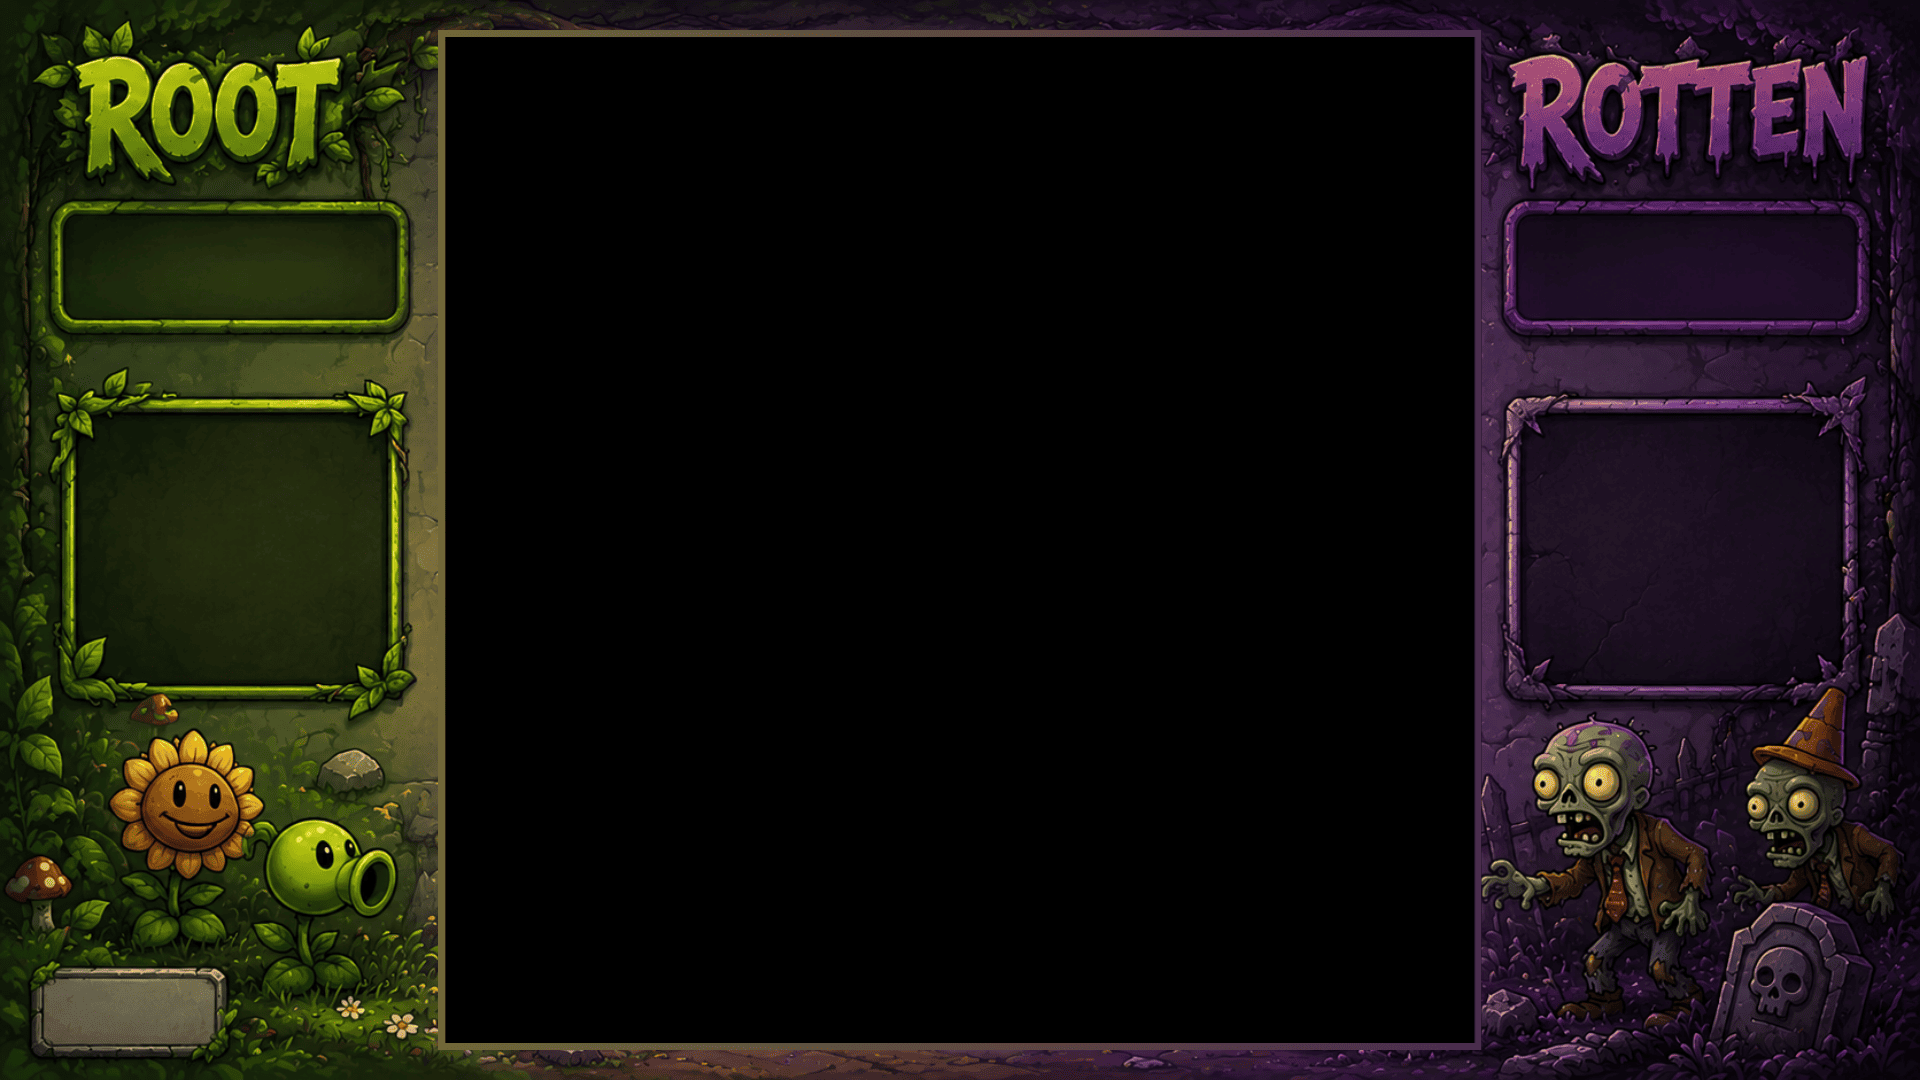
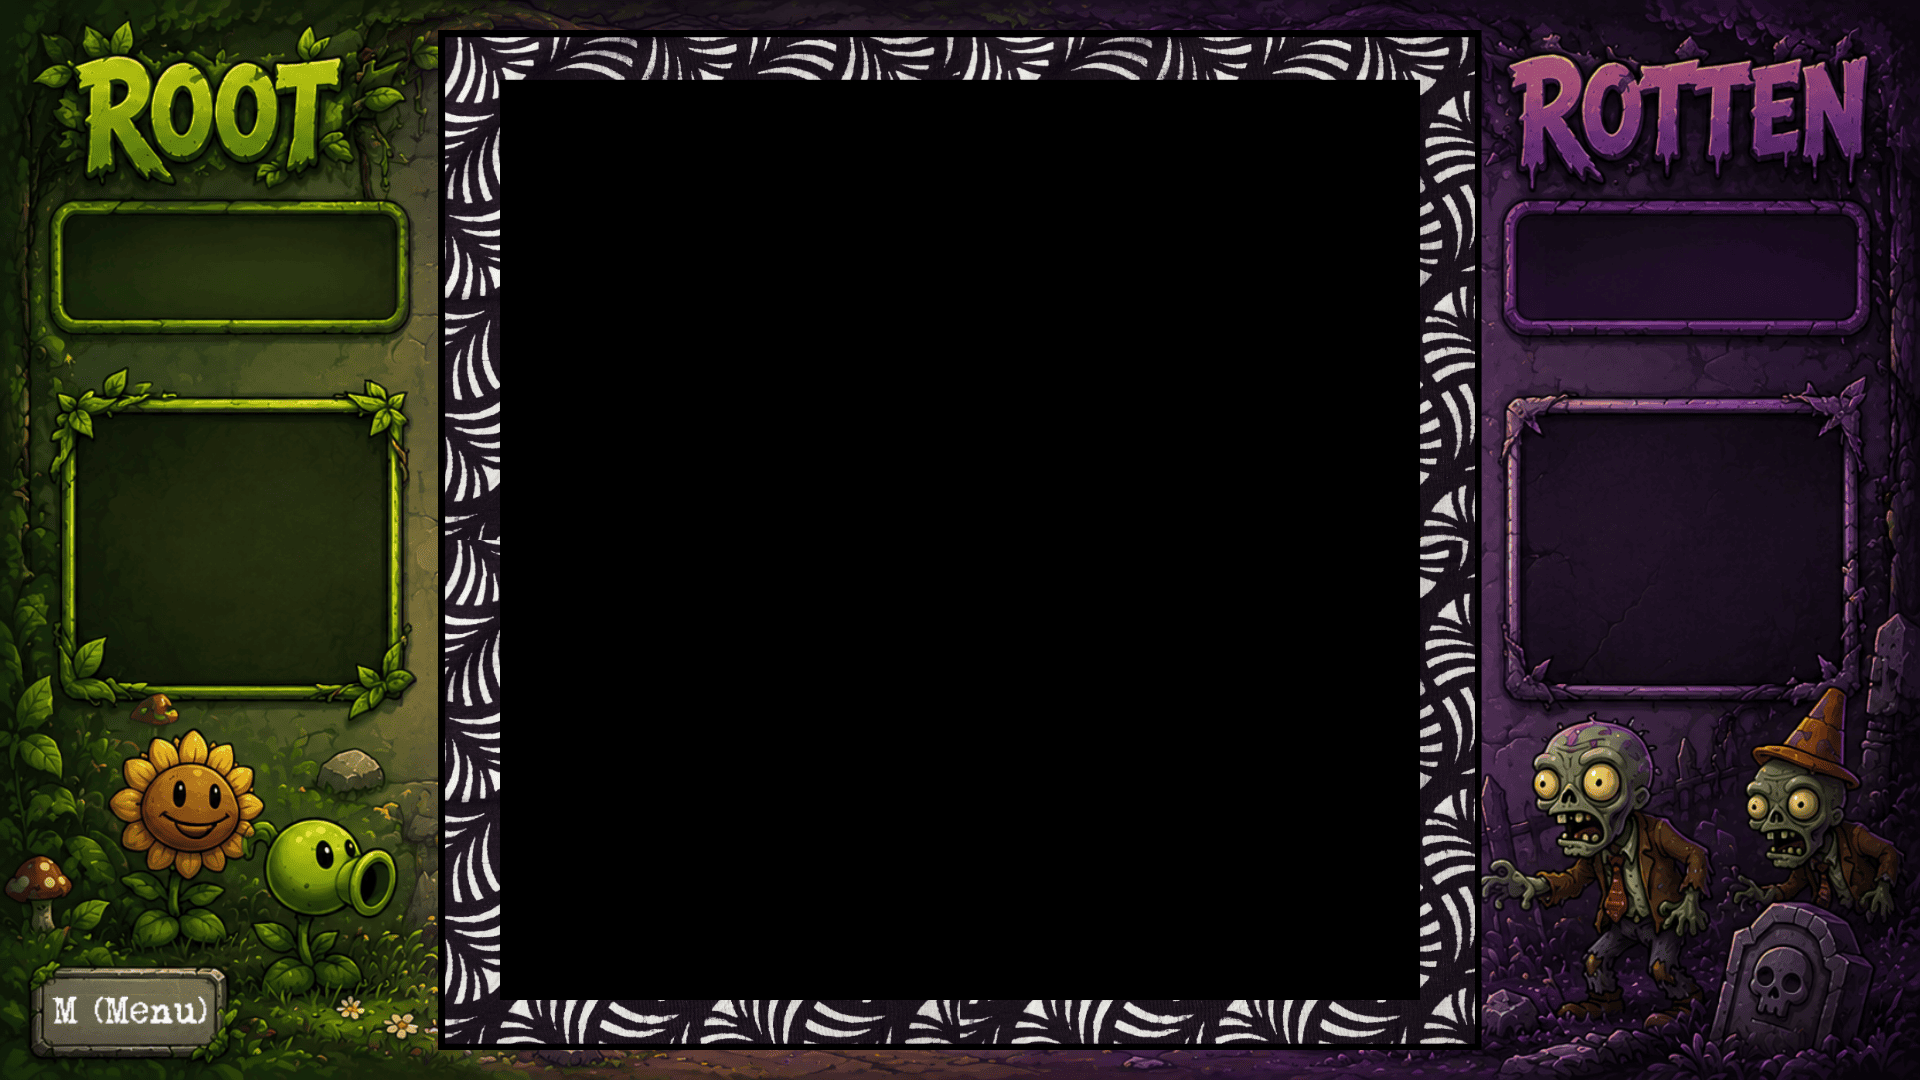
Se ha añadido el fondo que acompaña el tablero, y ahora se señaliza mediante una "luz" el turno de cada equipo en el tablero

diff --git a/src/tablero.cpp b/src/tablero.cpp
@@ -15,6 +15,7 @@
 #include "listapieza.h"
 #include "cursor.h"
 #include <iostream>
+#include "ETSIDI.h"
 
 void Tablero::inicializaTablero() {
 	// Patron del tablero Archon 9x9
@@ -37,9 +38,9 @@ void Tablero::inicializaTablero() {
 	// Definicion de colores RGB para cada tipo
 	using byte = unsigned char;
 	byte colores[3][3] = {
-		{90, 180, 80}, // 0: Casilla de Plantas
-		{90, 30, 120}, // 1: Casilla de Zombies
-		{200, 200, 200}, // 2: Casilla Neutral
+		{136, 180, 10}, // 0: Casilla de Plantas
+		{80, 47, 84}, // 1: Casilla de Zombies
+		{235, 235, 235}, // 2: Casilla Neutral
 	};
 
 	for (int i = 0; i < FILAS; i++) { // Inicialización del tipo de casilla y su color
@@ -59,6 +60,22 @@ void Tablero::inicializaTablero() {
 }
 
 void Tablero::dibujaTablero(const Cursor& cursor) {
+	extern float G_XMAX;
+	extern float G_YMAX;
+	glEnable(GL_TEXTURE_2D);
+	glEnable(GL_BLEND);
+	glBlendFunc(GL_SRC_ALPHA, GL_ONE_MINUS_SRC_ALPHA);
+	glBindTexture(GL_TEXTURE_2D, ETSIDI::getTexture("imagenes/fondos/fondo_tablero.png").id);
+	glColor3f(1.0f, 1.0f, 1.0f);
+	glBegin(GL_QUADS);
+	glTexCoord2f(0.0f, 1.0f); glVertex3f(-G_XMAX, -G_YMAX, 0);
+	glTexCoord2f(1.0f, 1.0f); glVertex3f(G_XMAX, -G_YMAX, 0);
+	glTexCoord2f(1.0f, 0.0f); glVertex3f(G_XMAX, G_YMAX, 0);
+	glTexCoord2f(0.0f, 0.0f); glVertex3f(-G_XMAX, G_YMAX, 0);
+	glEnd();
+	glDisable(GL_BLEND);
+	glDisable(GL_TEXTURE_2D);
+
 	// Dibuja las casillas
 	for (int i = 0; i < FILAS; i++) {
 		for (int j = 0; j < COLS; j++) {
@@ -327,11 +344,12 @@ void Tablero::cancelarSeleccion()
 	casillasValidas.clear();
 }
 
-void Tablero::dibuja(const Cursor& cursor)
+void Tablero::dibuja(const Cursor& cursor, int turno)
 {
-	dibujaTablero(cursor);     // casillas + cursor
-	dibujaPiezas();            // piezas encima
-	marcaCasillasValidas();    // casillas verdes encima de todo
+	dibujaTablero(cursor); // fondo + casillas + cursor
+	dibujaPiezas(); // piezas encima
+	marcaCasillasValidas(); // casillas verdes encima de todo
+	dibujarIndicadorTurno(turno); // indicador de turno, lo último
 }
 
 constexpr float VEL_ANIMACION = 3.0f; // movimiento casillas por segundo
@@ -420,4 +438,28 @@ bool Tablero::aplicarHechizo(Pos destino)
 
 	if (exito) { hechizoActivo = nullptr; magoLanzando = nullptr; }
 	return exito;
+}
+
+void Tablero::dibujarIndicadorTurno(int turno) {
+	extern float G_XMAX;
+	extern float G_YMAX;
+
+	const char* ruta = (turno == 0) ? "imagenes/turnos/turno_plantas.png" : "imagenes/turnos/turno_zombies.png";
+
+	auto tex = ETSIDI::getTexture(ruta);
+	if (tex.id == 0) return;
+
+	glEnable(GL_TEXTURE_2D);
+	glEnable(GL_BLEND);
+	glBlendFunc(GL_SRC_ALPHA, GL_ONE_MINUS_SRC_ALPHA);
+	glBindTexture(GL_TEXTURE_2D, tex.id);
+	glColor4f(1.0f, 1.0f, 1.0f, 1.0f);
+	glBegin(GL_QUADS);
+	glTexCoord2f(0.0f, 1.0f); glVertex3f(-G_XMAX, -G_YMAX, 0);
+	glTexCoord2f(1.0f, 1.0f); glVertex3f(G_XMAX, -G_YMAX, 0);
+	glTexCoord2f(1.0f, 0.0f); glVertex3f(G_XMAX, G_YMAX, 0);
+	glTexCoord2f(0.0f, 0.0f); glVertex3f(-G_XMAX, G_YMAX, 0);
+	glEnd();
+	glDisable(GL_BLEND);
+	glDisable(GL_TEXTURE_2D);
 }

diff --git a/src/mundo.h b/src/mundo.h
@@ -28,6 +28,10 @@ class Mundo
 	bool    enPausa = false;
 	Caja caja;
 	int opcionPausa = 0;
+	void jugarCasilla(Pos casilla); // logica comun: seleccionar/mover pieza en esa casilla del turno actual
+	hechizoHeal hechizoHeal;
+	Pieza* magoSeleccionado = nullptr;
+	//std::string textoHechizos() const;
 
 public:
 	void inicializa();
@@ -39,10 +43,4 @@ public:
 	//funciones para gestionar el pulsado continuo de tecla
 	void teclaLevantada(unsigned char key);
 	void teclaEspecialLevantada(int key);
-
-private:
-	void jugarCasilla(Pos casilla); // logica comun: seleccionar/mover pieza en esa casilla del turno actual
-	hechizoHeal hechizoHeal;
-	Pieza* magoSeleccionado = nullptr;
-	//std::string textoHechizos() const;
 };

diff --git a/src/mundo.cpp b/src/mundo.cpp
@@ -124,7 +124,7 @@ void Mundo::jugarCasilla(Pos casilla)
 			return;
 		}
 	}
-	
+
 	bool combate = tablero.gestionarEntrada(casilla, turno);
 	if (turno == 0)
 		cursor.setBloqueado(tablero.piezaBloqueada(cursor.getPosicion()));
@@ -175,12 +175,11 @@ void Mundo::dibuja()
 	glMatrixMode(GL_MODELVIEW);
 	glColor3ub(255, 255, 255);
 
-	tablero.dibuja(cursor);
+	tablero.dibuja(cursor, turno);
 	cursor.dibuja();   // borde amarillo
 	cursor2.dibuja();  // borde morado
 	//caja.dibuja();
 	arena.dibuja();
-	menu.dibujaTeclaMenu();
 	if (enPausa) menu.dibujaPausa(opcionPausa);
 }
 // Flechas

diff --git a/src/tablero.h b/src/tablero.h
@@ -31,7 +31,7 @@ public:
 
 	bool gestionarEntrada(Pos cursor, int& turno);
 	void cancelarSeleccion();
-	void dibuja(const Cursor& cursor);
+	void dibuja(const Cursor& cursor, int turno);
 
 	// Getters para que Mundo pueda acceder a los combatientes
 	Pieza* getPersonaje1() const { return personaje1; }
@@ -55,6 +55,7 @@ private:
 	void dibujaTablero(const Cursor& cursor);
 	void dibujaPiezas();
 	void marcaCasillasValidas();
+	void dibujarIndicadorTurno(int turno);
 
 	Casilla casillas[FILAS][COLS];
 	Pos piezaSeleccionada;

diff --git a/src/menu.cpp b/src/menu.cpp
@@ -152,13 +152,6 @@ void Menu::dibuja()
 	if (pantalla == 2) dibujaCreditos();
 }
 
-void Menu::dibujaTeclaMenu() const
-{
-	ETSIDI::setFont("fuentes/texto.ttf", 18);
-	ETSIDI::setTextColor(0.3f, 0.3f, 0.3f);
-	ETSIDI::printxy("M (Menu)", -25.f, -13.f);
-}
-
 void Menu::dibujaPausa(int opcion) const
 {
 	glEnable(GL_BLEND); 	// Activar transparencia para respetar el canal alfa del PNG (me lo ha dicho la IA)

diff --git a/src/menu.h b/src/menu.h
@@ -16,6 +16,5 @@ public:
 	void dibuja();
 	void tecla(unsigned char key);
 	bool seEligeJugar() const { return confirmadoJugar; }
-	void dibujaTeclaMenu() const;
 	void dibujaPausa(int opcion) const;
 };
